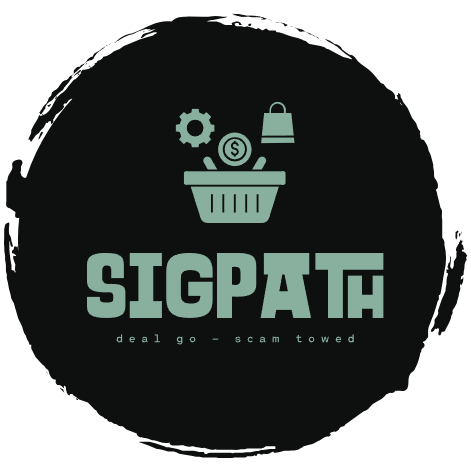
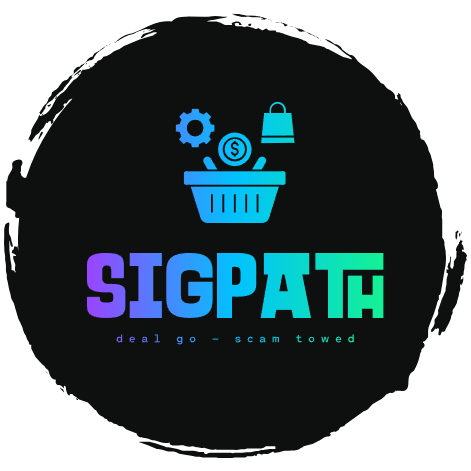
Recolour the site to Solana's purple, blue and green
Matches the pitch deck: night blue with a purple glow in dark mode,
lavender in light mode, purple buttons with white text, and Solana's
gradient as a strip under the header. The logo artwork takes the same
gradient on its black brush circle. Verdict colours are unchanged: green
still means checked and amber look closer. Both pitch files are ignored.

diff --git a/app/globals.css b/app/globals.css
@@ -4,56 +4,58 @@
    Every colour on the site comes from these variables. Three kinds:
 
    PALETTE (--brass, --sand, --stone, --sage, --sage-light, --ink)
-     Sage & Brass (chosen 2026-10-06): brass #b09763, sand #dfd7c6, stone
-     #7d7875, sage #668a84 and light sage #89b09f, with a warm charcoal ink.
-     Used as-is for the header, the hero and the buttons: brass and light
-     sage both read on the ink (5.3:1 and 6.2:1), and ink reads on both.
+     Solana (chosen 2026-10-11, replacing Sage & Brass): the purple -> blue ->
+     green of Solana's brand (#9945ff, #00c2ff, #14f195, --gradient) on a
+     night-blue ink. The old names are kept so the components don't change:
+     --brass is now light purple #b48cff and --sage-light Solana green, both
+     for use on the ink (7.5:1 and 12:1). The pitch deck uses the same colours.
 
-   BRAND (--brand*, --bg, --surface*, --fg, --muted, --border)
-     Sage and stone are too light to be text on sand (3.8:1 to 3.9:1), so text
-     uses deeper shades of them. Every text pair passes WCAG AA (lowest 5.1:1
-     in light, 6.4:1 in dark).
+   BRAND (--brand*, --cta*, --bg, --surface*, --fg, --muted, --border)
+     Purple carries the brand on light backgrounds (#6a2fe0, 6.2:1 on the
+     page); buttons are a deeper purple with white text (#8a3cf0, 5.3:1).
+     Every text pair passes WCAG AA.
 
    TRUST (--ok*, --warn*)
      What the checks MEAN: green for SigPath-checked, amber for "look closer".
-     They sit near the sage and the brass in hue, so they are kept deeper and
-     more saturated, used only for verdicts, and every verdict also carries an
-     icon and words: a shopper never tells them apart by colour alone.
+     Unchanged by the palette, used only for verdicts, and every verdict also
+     carries an icon and words: a shopper never tells them apart by colour
+     alone.
    ========================================================================== */
 
 :root {
-  --brass: #b09763;
-  --sand: #dfd7c6;
-  --stone: #7d7875;
-  --sage: #668a84;
-  --sage-light: #89b09f;
-  --ink: #2a2725;
+  --brass: #b48cff;
+  --sand: #e1ddef;
+  --stone: #7c7899;
+  --sage: #6a2fe0;
+  --sage-light: #14f195;
+  --ink: #0b0a1a;
+  /* Solana's purple -> blue -> green, as a strip under the header. */
+  --gradient: linear-gradient(90deg, #9945ff 0%, #00c2ff 50%, #14f195 100%);
   /* Light text and lines on the ink (header, chat, code). */
-  --on-ink: #ece8df;
-  --on-ink-muted: #c4bdb3;
-  --ink-line: #3d3936;
+  --on-ink: #f4f3fb;
+  --on-ink-muted: #c8c5e2;
+  --ink-line: #2a2550;
 
-  --bg: #f4f0e7;
-  --surface: #fcfaf5;
-  --surface-2: #ebe4d6;
-  --fg: #2a2725;
-  --muted: #625d5a;
+  --bg: #f5f4fb;
+  --surface: #ffffff;
+  --surface-2: #ebe8f5;
+  --fg: #16132b;
+  --muted: #5c587a;
   --border: var(--sand);
 
-  --brand: #46685f;
+  --brand: #6a2fe0;
   --brand-ink: #ffffff;   /* text on --brand */
-  --brand-soft: #e3ece8;  /* tinted backgrounds */
+  --brand-soft: #efe8fd;  /* tinted backgrounds */
   /* The identity pages and the camera component still say --accent. */
   --accent: var(--brand);
 
   /* The page itself: a gradient over the whole screen, rising from a pale
-     sage at the bottom to sand at the top. Every text colour stays AA on
-     its palest stop (lowest 4.6:1, the amber on the sage). */
-  --page-bg: linear-gradient(to top, #dce7df 0%, #e9eadf 45%, #f4f0e7 100%) fixed;
+     green at the bottom to lavender at the top. */
+  --page-bg: linear-gradient(to top, #e6f6ef 0%, #eeedfa 45%, #f5f4fb 100%) fixed;
 
-  /* Primary buttons are brass with ink text. */
-  --cta: var(--brass);
-  --cta-ink: var(--ink);
+  /* Primary buttons are purple with white text. */
+  --cta: #8a3cf0;
+  --cta-ink: #ffffff;
 
   /* The hero lets the page gradient show through. */
   --hero-bg: transparent;
@@ -66,29 +68,29 @@
 
   --radius: 14px;
   --radius-sm: 8px;
-  --shadow: 0 1px 2px rgba(42, 39, 37, 0.05), 0 6px 16px rgba(42, 39, 37, 0.07);
-  --shadow-lift: 0 2px 4px rgba(42, 39, 37, 0.08), 0 12px 28px rgba(42, 39, 37, 0.13);
+  --shadow: 0 1px 2px rgba(22, 19, 43, 0.05), 0 6px 16px rgba(22, 19, 43, 0.07);
+  --shadow-lift: 0 2px 4px rgba(22, 19, 43, 0.08), 0 12px 28px rgba(22, 19, 43, 0.13);
   --font-sans: ui-sans-serif, system-ui, -apple-system, "Segoe UI", sans-serif;
 }
 
 @media (prefers-color-scheme: dark) {
   :root {
-    /* By night: dark olive, lighter towards the bottom of the screen, with
-       light sage and brass doing the talking. */
-    --bg: #1f2318;
-    --page-bg: linear-gradient(to top, #343925 0%, #262a1c 45%, #1a1d14 100%) fixed;
-    --surface: #272b1f;
-    --surface-2: #30352a;
-    --fg: #ece8df;
-    --muted: #aaa49f;
-    --border: #3d4230;
+    /* By night: night blue, rising into purple towards the bottom of the
+       screen, as on the deck's dark slides. */
+    --bg: #0b0a1a;
+    --page-bg: linear-gradient(to top, #2b1d5e 0%, #151230 45%, #0b0a1a 100%) fixed;
+    --surface: #151230;
+    --surface-2: #1d1940;
+    --fg: #f4f3fb;
+    --muted: #aaa6c8;
+    --border: #2a2550;
 
-    --brand: var(--sage-light);
-    --brand-ink: #1a1d14;
-    --brand-soft: #2a3324;
+    --brand: var(--brass);
+    --brand-ink: #0b0a1a;
+    --brand-soft: #241c4a;
 
-    --cta: var(--brass);
-    --cta-ink: #1a1d14;
+    --cta: #8a3cf0;
+    --cta-ink: #ffffff;
 
     /* The hero lets the page gradient show through. */
     --hero-bg: transparent;
@@ -157,8 +159,9 @@ button { font-family: var(--font-sans); }
 .site-header {
   position: sticky; top: 0; z-index: 10;
   background: var(--ink);
-  border-bottom: 1px solid var(--ink-line);
 }
+/* Solana's gradient as a thin strip under the header, as on the deck. */
+.site-header::after { content: ""; display: block; height: 3px; background: var(--gradient); }
 .site-header-inner, .site-footer-inner {
   max-width: 1040px; margin: 0 auto; padding: 0 16px;
   display: flex; align-items: center; justify-content: space-between; gap: 16px;
@@ -166,9 +169,9 @@ button { font-family: var(--font-sans); }
 .site-header-inner { height: 60px; }
 
 /* The sale-day warning under the header (lib/sale-days.ts). */
-.sale-day { background: var(--brass); color: var(--ink); }
+.sale-day { background: var(--cta); color: var(--cta-ink); }
 .sale-day p { max-width: 1040px; margin: 0 auto; padding: 10px 16px; font-size: 15px; line-height: 1.4; }
-.sale-day a { color: var(--ink); white-space: nowrap; }
+.sale-day a { color: var(--cta-ink); white-space: nowrap; }
 .brand { display: inline-flex; align-items: center; text-decoration: none; }
 .logo-wordmark { display: block; height: 24px; width: auto; }
 .site-nav { display: flex; gap: 4px; }
@@ -521,9 +524,9 @@ button { font-family: var(--font-sans); }
    Palette candidates — compared side by side on /palettes
    --------------------------------------------------------------------------
    Each class redefines the tokens for everything inside it, so the real
-   components render in that palette (light mode). Sage & Brass is the live
-   palette and matches :root; Logo Cyan is the one it replaced. Every text
-   pair here is checked to WCAG AA (4.5:1).
+   components render in that palette (light mode). Neither is live: Solana
+   (:root) replaced Sage & Brass on 2026-10-11, which had replaced Logo Cyan.
+   Every text pair here is checked to WCAG AA (4.5:1).
    ========================================================================== */
 
 .theme-cyan {

diff --git a/app/palettes/page.tsx b/app/palettes/page.tsx
@@ -1,5 +1,5 @@
 /**
- * app/palettes — the live palette and the previous one, side by side, on real components.
+ * app/palettes — the two palettes before the live (Solana) one, side by side, on real components.
  *
  * A design-review page, not linked from the site. Each panel sets a theme
  * class that redefines the colour tokens (see the end of globals.css), so what
@@ -160,12 +160,11 @@ export default function PalettesPage() {
     <main className="container palette-page" id="preview">
       <h1>Palette comparison</h1>
       <p className="lede">
-        The same components in the live palette and the one it replaced. Sage &amp; Brass uses its five colours as-is
-        for the hero, buttons and badges; text accents use a deeper sage so they stay readable.
+        The same components in the two palettes SigPath used before its current one, kept for comparison.
       </p>
       <p className="notice">
-        <strong>Sage &amp; Brass is live</strong> across the site (2026-10-06), with a matching dark mode. Logo Cyan,
-        the palette before it, is kept here for comparison.
+        <strong>The site now uses Solana&apos;s colours</strong> (2026-10-11): purple, blue and green on night blue, as on the
+        pitch deck. Sage &amp; Brass (2026-10-06) and Logo Cyan before it are shown here.
       </p>
       <div className="palette-compare">
         {THEMES.map((t) => (

diff --git a/app/components/Logo.tsx b/app/components/Logo.tsx
@@ -1,7 +1,7 @@
 /**
- * The SigPath logo (finalised 2026-10-02, recoloured 2026-10-06 from cyan to
- * the palette's light sage #89b09f): light sage artwork on a black brush
- * circle. The lettering is custom (P-A-T-H share one top bar), so it ships as
+ * The SigPath logo (finalised 2026-10-02; recoloured 2026-10-06 from cyan to
+ * light sage, and 2026-10-11 to Solana's purple -> blue -> green gradient, as
+ * on the pitch deck): gradient artwork on a black brush circle. The lettering is custom (P-A-T-H share one top bar), so it ships as
  * the artwork itself, cut out of the source design onto a transparent
  * background, rather than as a font.
  *
@@ -14,7 +14,7 @@ import Image from "next/image";
 
 export const SLOGAN = "Deal Go – Scam Towed";
 
-/** The light sage lettering, sized for the dark header bar. */
+/** The gradient lettering, sized for the dark header bar. */
 export function Wordmark() {
   return <Image className="logo-wordmark" src="/brand/sigpath-wordmark.png" alt="SigPath" width={297} height={65} priority />;
 }
